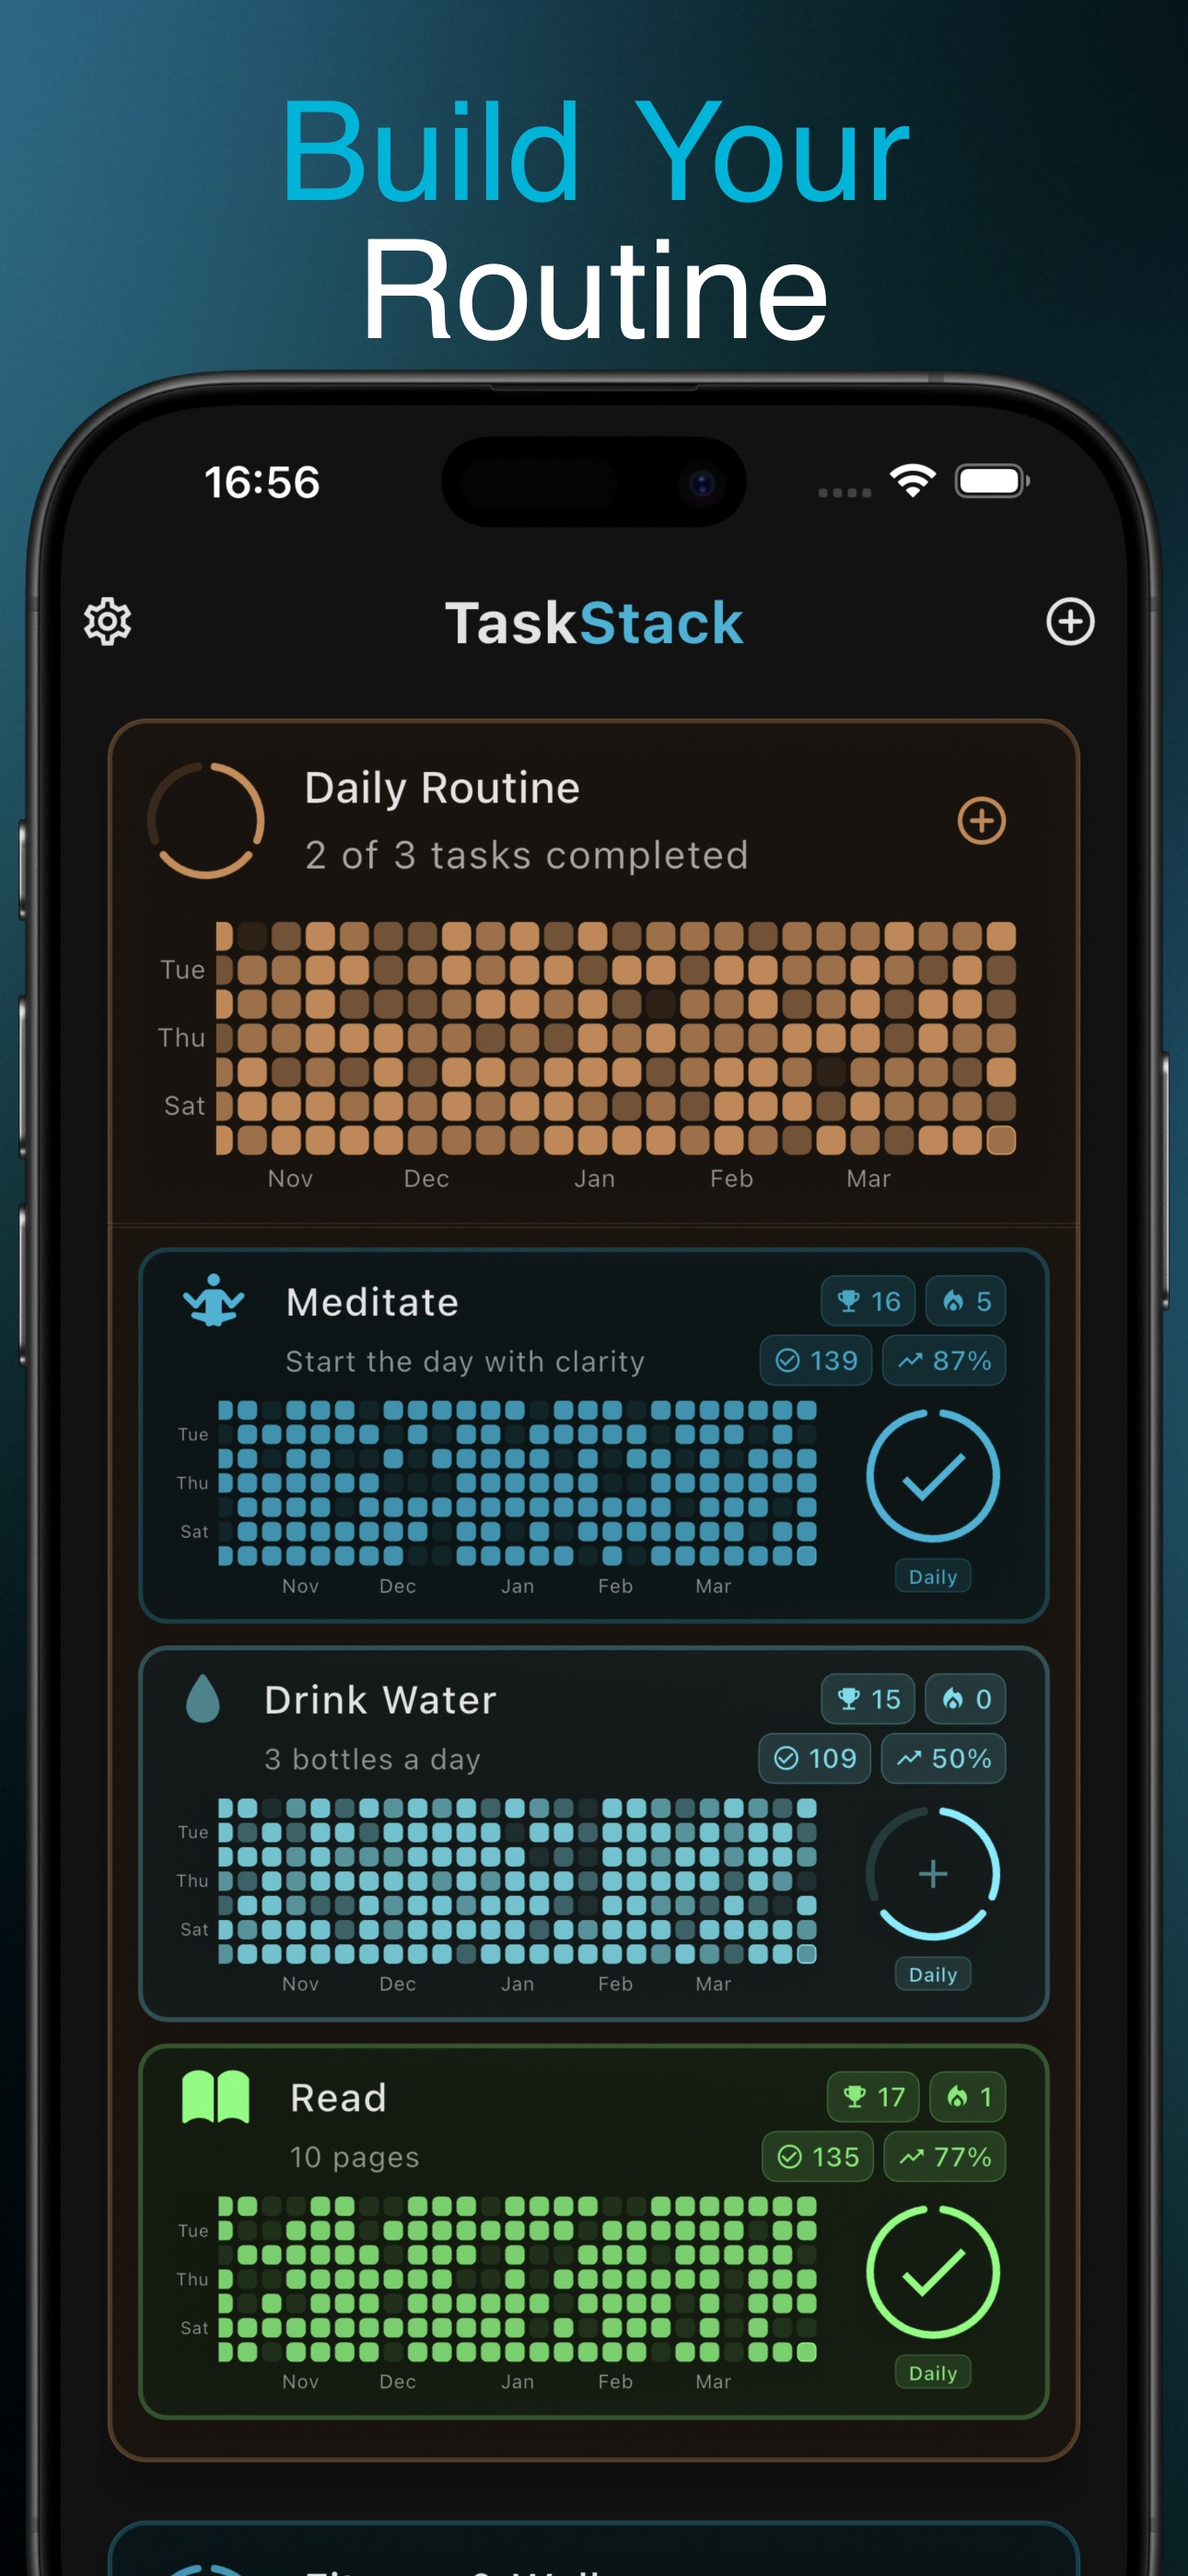
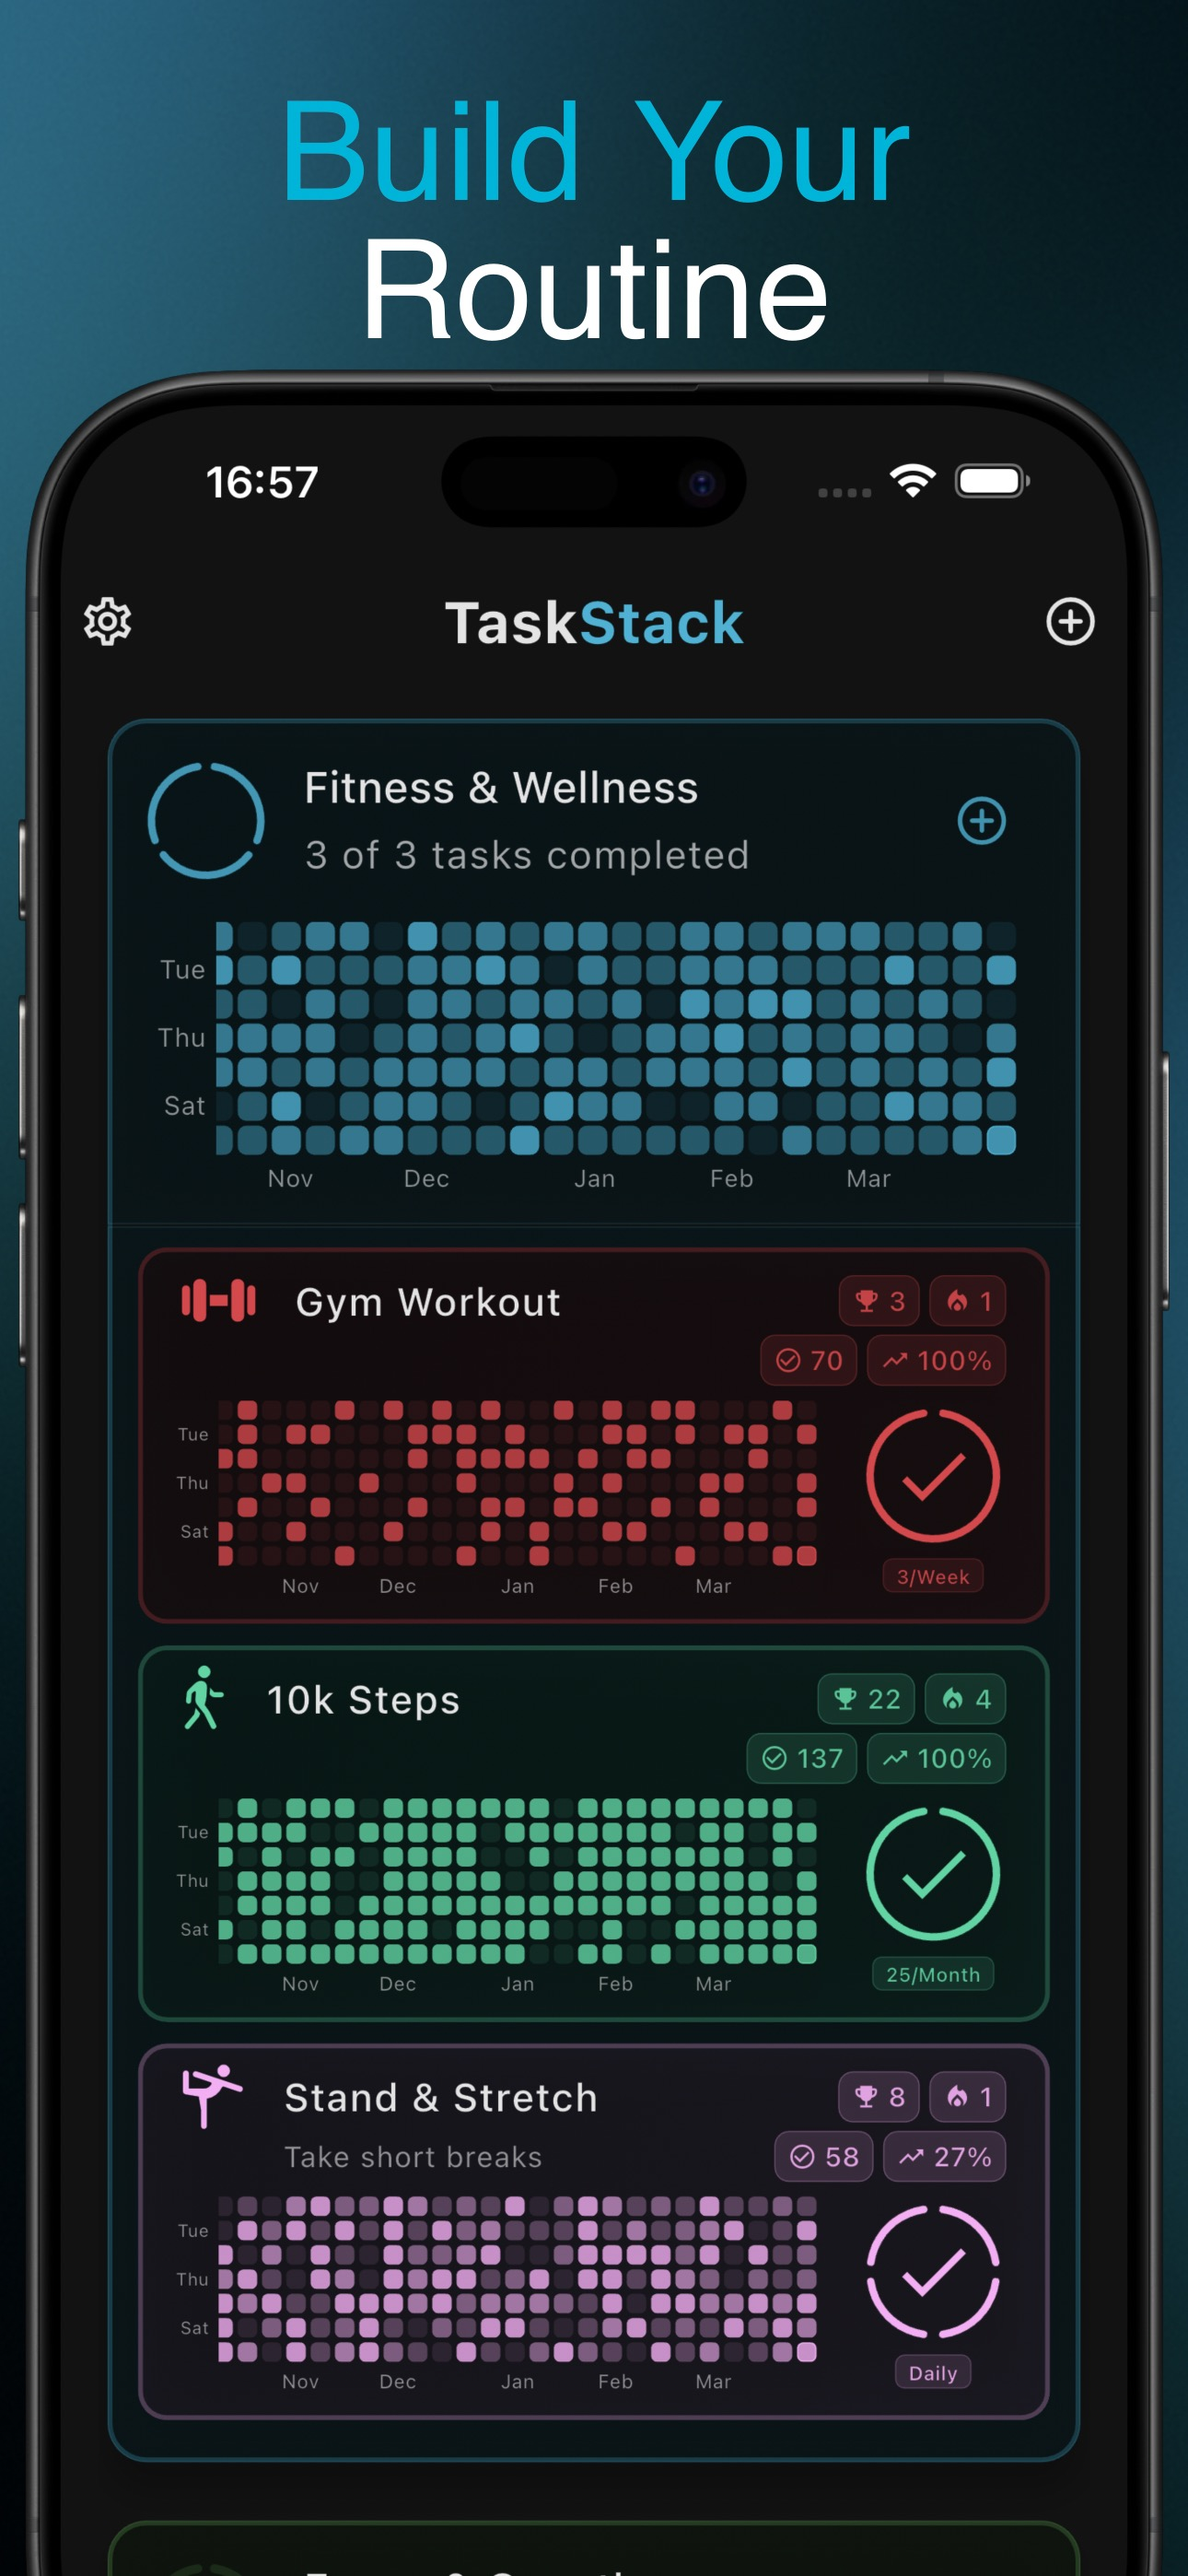
Updated imgs and text

diff --git a/taskstack/index.html b/taskstack/index.html
@@ -262,7 +262,7 @@
         /* Desktop-specific styles */
         @media (min-width: 769px) {
             .app-showcase {
-                grid-template-columns: repeat(4, 1fr);
+                grid-template-columns: repeat(7, 1fr);
                 gap: 25px;
                 margin: 50px 0;
             }
@@ -274,6 +274,10 @@
 
             .app-screenshot:hover img {
                 transform: scale(1.05);
+            }
+
+            .features {
+                grid-template-columns: repeat(4, 1fr);
             }
         }
     </style>
@@ -295,44 +299,82 @@
                 <img src="website_img/2 - build_your_routine.jpeg" alt="TaskStack App Screenshot - Build Your Routine">
             </div>
             <div class="app-screenshot">
-                <img src="website_img/5 - view_your_journey.jpeg" alt="TaskStack App Screenshot - Track Your Progress">
+                <img src="website_img/3 - customize_your_way.jpeg" alt="TaskStack App Screenshot - Customize Your Way">
             </div>
             <div class="app-screenshot">
-                <img src="website_img/6 - edit_history.jpeg" alt="TaskStack App Screenshot - View Edit History">
+                <img src="website_img/4 - stay_on_track.jpeg" alt="TaskStack App Screenshot - Stay on Track">
+            </div>
+            <div class="app-screenshot">
+                <img src="website_img/5 - follow_your_journey.jpeg"
+                    alt="TaskStack App Screenshot - Follow Your Journey">
+            </div>
+            <div class="app-screenshot">
+                <img src="website_img/6 - track_your_mood.jpeg" alt="TaskStack App Screenshot - Track Your Mood">
+            </div>
+            <div class="app-screenshot">
+                <img src="website_img/7 - view_anywhere.jpeg" alt="TaskStack App Screenshot - View Anywhere">
             </div>
         </div>
 
         <div class="glass-card">
             <div class="features">
                 <div class="feature">
-                    <h3>Create Your Stacks</h3>
-                    <p>Organize your tasks and habits into customized stacks to build powerful routines that stick.</p>
+                    <h3>Create Your<br>Stacks</h3>
+                    <p>Organize related tasks into customized stacks for different areas of your life - fitness,
+                        productivity, mindfulness, and more.</p>
                 </div>
                 <div class="feature">
-                    <h3>Track Progress</h3>
-                    <p>Visualize your consistency with the beautiful activity grid that shows your progress over time.
-                    </p>
+                    <h3>Build Your<br>Routine</h3>
+                    <p>Add personalized tasks with custom goals, completion requirements, and reminders that fit
+                        perfectly into your lifestyle.</p>
                 </div>
                 <div class="feature">
-                    <h3>Stay Motivated</h3>
-                    <p>Get insights into your habit formation journey with detailed stats and analytics.</p>
+                    <h3>Customize<br>Your Way</h3>
+                    <p>Select from beautiful colors and icons with a sleek frost-glass design in an elegant dark mode
+                        aesthetic.</p>
+                </div>
+                <div class="feature">
+                    <h3>Stay on Track<br>With Insight</h3>
+                    <p>Track your streaks, completion rates, and performance metrics with beautiful visualizations that
+                        keep you motivated.</p>
+                </div>
+                <div class="feature">
+                    <h3>Track Your<br>Mood</h3>
+                    <p>Record how you feel after completing tasks and visualize mood patterns over time to optimize your
+                        routine.</p>
+                </div>
+                <div class="feature">
+                    <h3>Follow Your<br>Journey</h3>
+                    <p>Watch your consistency grow with color-coded activity grids that visualize your habit-forming
+                        journey over time.</p>
+                </div>
+                <div class="feature">
+                    <h3>View Anywhere<br>Edit Anytime</h3>
+                    <p>Manage your history with a calendar interface and access tasks quickly with home screen
+                        widgets.</p>
+                </div>
+                <div class="feature">
+                    <h3>Privacy<br>Focused</h3>
+                    <p>Your data stays on your device with no account required. Easily export and import for backup or
+                        transfer.</p>
                 </div>
             </div>
         </div>
+    </div>
 
-        <!-- <div class="cta">
+    <!-- <div class="cta">
             <a href="https://apps.apple.com/app/taskstack/id0000000000" class="app-store-btn">Download on App Store</a>
             <a href="https://play.google.com/store/apps/details?id=com.taskstack.app" class="app-store-btn">Get it on
                 Google Play</a>
         </div> -->
 
-        <footer class="footer">
-            <p>&copy; 2025 TaskStack. All rights reserved.</p>
-            <p>
-                <a href="privacy/">Privacy Policy</a> |
-                <a href="terms/">Terms of Use</a>
-            </p>
-        </footer>
+    <footer class="footer">
+        <p>&copy; 2025 TaskStack. All rights reserved.</p>
+        <p>
+            <a href="privacy/">Privacy Policy</a> |
+            <a href="terms/">Terms of Use</a>
+        </p>
+    </footer>
     </div>
 </body>
 
